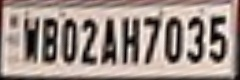
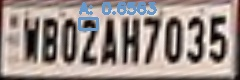
OCR added (Pytesseract)

Changed region(s): [[0.3208, 0.025, 0.6708, 0.4]]

diff --git a/src/alpr/ocr.py b/src/alpr/ocr.py
@@ -1,21 +1,13 @@
-# 3 files required -> coco.names,yolov3.weigths,yolov3.cfg and a sample image .. 
-# link to files https://drive.google.com/drive/folders/1SJ084lQ7ACXnjnrG8Q8tkfvhm4oAma16?usp=sharing
-# change the paths accordingly
-# change the cv2_imshow function if running on laptop,on colab it will work fine
-
-
-
 import numpy as np
 import argparse
 import time
 from cv2 import cv2
 import os
-from license_plate_detection import extract_lp
 
 
 
-def extract_car(frame):
-  path="data/vehicle-detector/voc.names"
+def read_plate(frame):
+  path="data/ocr/ocr-net.names"
   labelsPath = path
   LABELS = open(labelsPath).read().strip().split("\n")
 
@@ -23,9 +15,9 @@ def extract_car(frame):
   COLORS = np.random.randint(0, 255, size=(len(LABELS), 3),
     dtype="uint8")
 
-  weightsPath="data/vehicle-detector/yolo-voc.weights"
-  configPath ="data/vehicle-detector/yolo-voc.cfg"
-  print("Running vehicle-detector.py")
+  weightsPath="data/ocr/ocr-net.weights"
+  configPath ="data/ocr/ocr-net.cfg"
+  print("Running ocr.py")
   net = cv2.dnn.readNetFromDarknet(configPath, weightsPath)
 
 
@@ -42,7 +34,7 @@ def extract_car(frame):
   ln = [ln[i[0] - 1] for i in net.getUnconnectedOutLayers()]
 
 
-  blob = cv2.dnn.blobFromImage(image, 1 / 255.0, (416, 416),swapRB=True, crop=False)
+  blob = cv2.dnn.blobFromImage(image, 1 / 255.0, (128, 128),swapRB=True, crop=False)
   net.setInput(blob)
   layerOutputs = net.forward(ln)
 
@@ -50,7 +42,7 @@ def extract_car(frame):
   boxes = []
   confidences = []
   classIDs = []
-  keylist=['car', 'bus', 'truck']        # Needs some changes
+  keylist= LABELS
   dict_boundingbox = {key:[] for key in keylist}
   dict_confidence={key:[] for key in keylist}
 
@@ -59,7 +51,7 @@ def extract_car(frame):
       scores = detection[5:]
       classID = np.argmax(scores)
       confidence = scores[classID]
-      if confidence > 0.5:
+      if confidence > 0.4:
         box = detection[0:4] * np.array([W, H, W, H])
         (centerX, centerY, width, height) = box.astype("int")
         x = int(centerX - (width / 2))
@@ -67,8 +59,6 @@ def extract_car(frame):
         if LABELS[classID] in keylist:
           dict_boundingbox[LABELS[classID]].append([x, y, int(width), int(height)])
           dict_confidence[LABELS[classID]].append(float(confidence))
-        
-
         confidences.append(float(confidence))
         boxes.append([x, y, int(width), int(height)])
         classIDs.append(classID)
@@ -100,13 +90,12 @@ def extract_car(frame):
 
 
 if __name__ == "__main__":
-    path = "../alpr-unconstrained/samples/Indian_vehicles/3.png"
+    path = "image.png"
     frame = cv2.imread(path)
-    cropped_images = extract_car(frame)
+    cropped_images = read_plate(frame)
     counter = 1
     for x in cropped_images:
-        frame2 = extract_lp(x)
-        cv2.imwrite("cropped" + str(counter) + ".jpg", frame2)
+        cv2.imwrite("cropped" + str(counter) + ".jpg", frame)
         counter+=1
 
 

diff --git a/src/alpr/license_plate_detection.py b/src/alpr/license_plate_detection.py
@@ -2,10 +2,10 @@ import sys, os
 import keras
 from cv2 import cv2
 import traceback
-from .src.keras_utils import load_model
+from src.keras_utils import load_model
 from glob import glob
-from .src.utils import im2single
-from .src.keras_utils import load_model, detect_lp
+from src.utils import im2single
+from src.keras_utils import load_model, detect_lp
 
 
 def adjust_pts(pts,lroi):
@@ -15,7 +15,7 @@ def adjust_pts(pts,lroi):
 def extract_lp(frame):
 
 	try:
-		wpod_net_path = os.getcwd() + "/license_plate/lp-detector/wpod-net_update1" 
+		wpod_net_path = os.getcwd() + "/data/lp-detector/wpod-net_update1" 
 		print(os.getcwd())
 		wpod_net = load_model(wpod_net_path)
 		lp_threshold = .5

diff --git a/src/alpr/ocr2.py b/src/alpr/ocr2.py
@@ -1,0 +1,23 @@
+from PIL import Image
+import pytesseract
+import argparse
+from cv2 import cv2
+import os
+import numpy as np
+
+ 
+def read_plate(plate):
+    gray = cv2.cvtColor(plate, cv2.COLOR_BGR2GRAY)
+    preproc = "thresh"
+    if preproc == "thresh":
+        gray = cv2.threshold(gray, 0, 255,
+            cv2.THRESH_BINARY | cv2.THRESH_OTSU)[1]
+    elif preproc == "blur":
+        gray = cv2.medianBlur(gray, 3)
+    text = pytesseract.image_to_string(plate)
+    print(text)
+
+if __name__ == "__main__":
+    path = "image.png"
+    frame = cv2.imread(path)
+    read_plate(frame)
